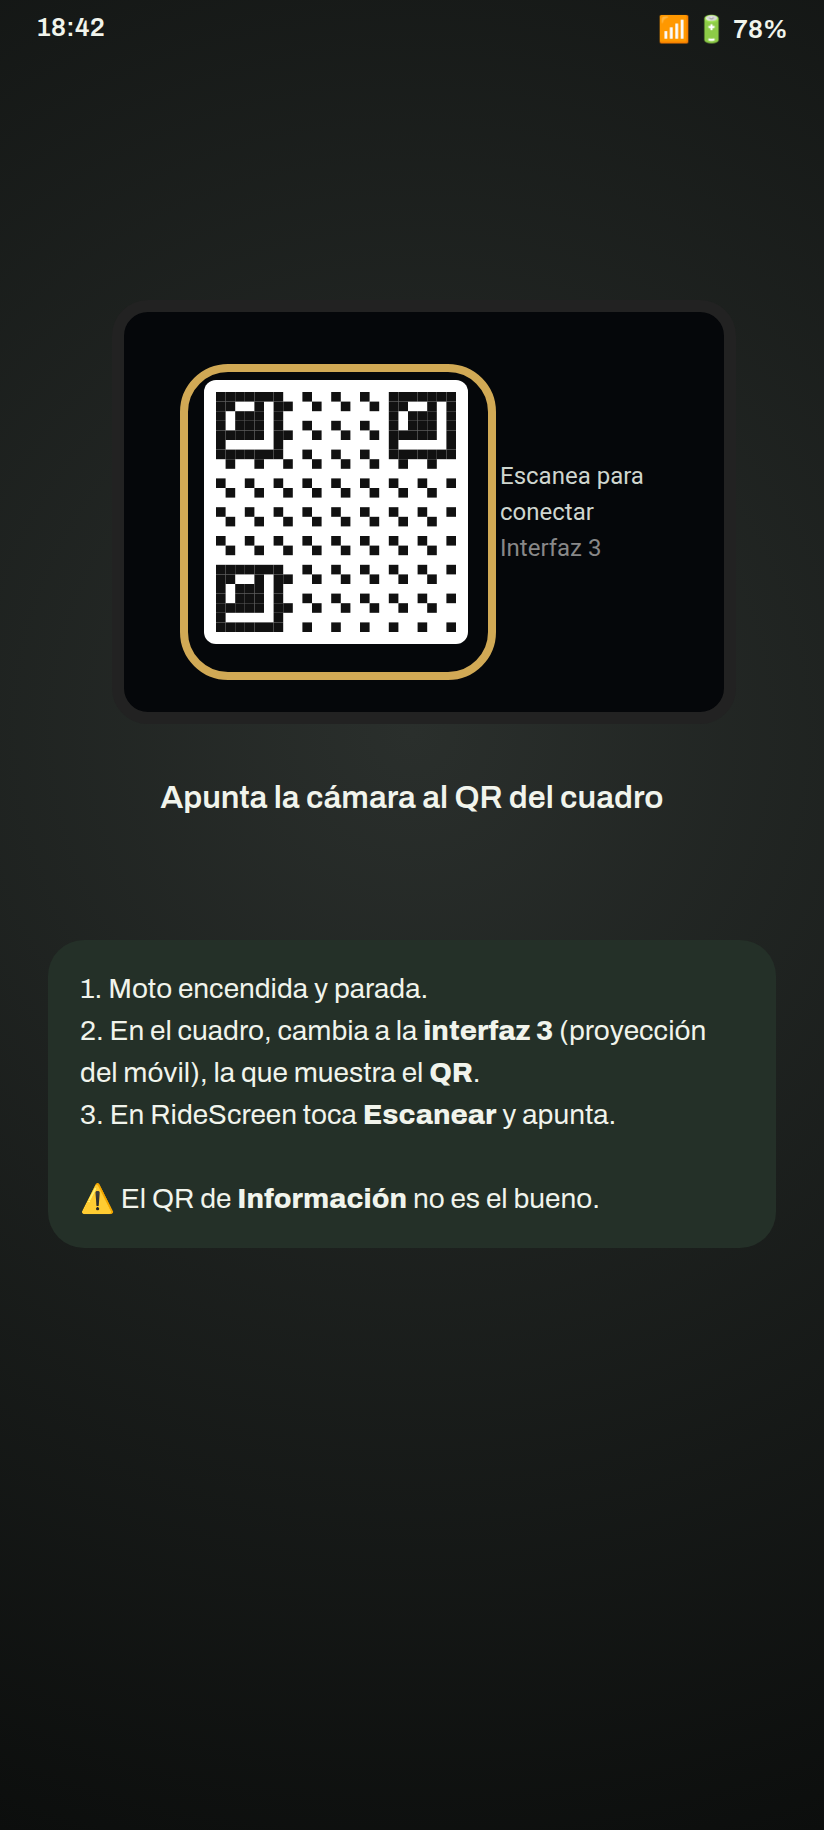
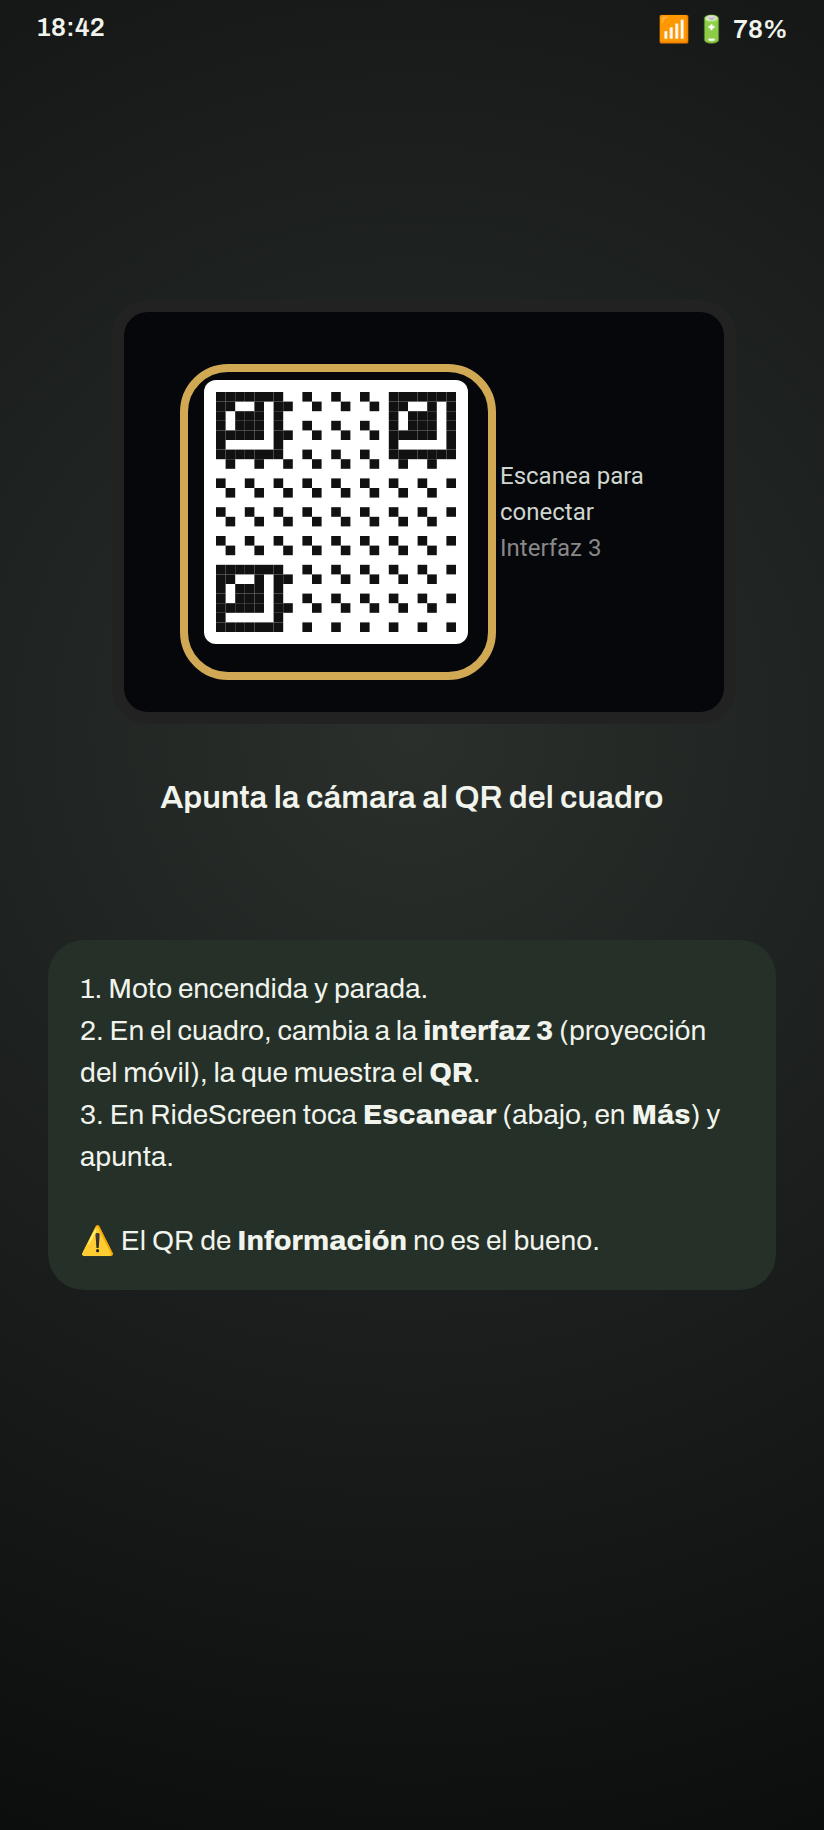
v2.2: install guide — Ajustes/Más/Ayuda paths, microphone step, head-unit-server shortcut, version-agnostic APK name, new screenshots
Claude-Session: https://claude.ai/code/session_01M1475VRaMw3fomj176HQwU

Changed region(s): [[0.091, 0.623, 0.7282, 0.6852], [0.6068, 0.5918, 0.8799, 0.623]]

diff --git a/site/guia/index.html b/site/guia/index.html
@@ -108,11 +108,11 @@ a { color: var(--accent); }
       <li class="step">
         <div class="txt">
           <h3>Descarga el APK del móvil</h3>
-          <p>Abre la página de la última versión y, en <strong>Assets</strong>, toca <strong>RideScreen-AA-v2.apk</strong>.</p>
+          <p>Abre la página de la última versión y, en <strong>Assets</strong>, toca el APK que empieza por <strong>RideScreen-AA-v</strong> (por ejemplo <strong>RideScreen-AA-v2.2.apk</strong>).</p>
           <a class="cta" href="https://github.com/mgb1982/open-cfmoto/releases/latest">Abrir la descarga</a>
           <div class="note warn">No descargues el que pone <strong>WearOS-reloj</strong>: es para el reloj y en el móvil da "el paquete no es válido".</div>
         </div>
-        <img src="g1_descarga.png" alt="Página de descarga en GitHub con RideScreen-AA-v2.apk resaltado" loading="lazy">
+        <img src="g1_descarga.png" alt="Página de descarga en GitHub con el APK del móvil resaltado" loading="lazy">
       </li>
       <li class="step">
         <div class="txt">
@@ -171,7 +171,7 @@ a { color: var(--accent); }
       <li class="step">
         <div class="txt">
           <h3>Escanea el QR del cuadro</h3>
-          <p>En el cuadro, cambia a la <strong>interfaz 3</strong>: la pantalla de proyección del móvil, que muestra un código QR. En RideScreen toca <strong>Escanear</strong> y apunta la cámara.</p>
+          <p>En el cuadro, cambia a la <strong>interfaz 3</strong>: la pantalla de proyección del móvil, que muestra un código QR. En RideScreen toca <strong>Escanear</strong> (abajo, en <strong>Más</strong>) y apunta la cámara.</p>
           <div class="note warn">El QR que aparece en <strong>Información</strong> no es el bueno: escanea el de la interfaz 3. Deja el cuadro en esa pantalla mientras conecta.</div>
         </div>
         <img src="g7_qr.png" alt="Cámara del móvil apuntando al código QR del cuadro" loading="lazy">
@@ -188,7 +188,8 @@ a { color: var(--accent); }
         <div class="txt">
           <h3>Listo: Android Auto en el cuadro</h3>
           <p>En unos segundos aparece Android Auto en la pantalla de la moto. Puedes guardar el móvil en el bolsillo.</p>
-          <p>La próxima vez basta con tocar <strong>Conectar</strong>. Para que se conecte sola al arrancar la moto: Configuración → <strong>Conectar cuando se conecte un dispositivo Bluetooth</strong> → elige el Bluetooth del cuadro (empieza por "ZT") y permite <strong>Mostrar sobre otras apps</strong>.</p>
+          <p>La próxima vez basta con tocar <strong>Conectar</strong>. Para que se conecte sola al arrancar la moto: <strong>⚙ Ajustes</strong> → <strong>Conectar cuando se conecte un dispositivo Bluetooth</strong> → elige el Bluetooth del cuadro (empieza por "ZT") y permite <strong>Mostrar sobre otras apps</strong>.</p>
+          <p>La primera vez que conectes, la app te pedirá el <strong>micrófono</strong>: elige <strong>Mientras se usa la app</strong> para poder usar «Ok Google» y el botón de voz del intercomunicador.</p>
         </div>
         <img src="g9_listo.png" alt="RideScreen conectado, con Android Auto en el cuadro" loading="lazy">
       </li>
@@ -202,7 +203,7 @@ a { color: var(--accent); }
       <details>
         <summary>"La aplicación no se ha instalado" / "el paquete no es válido"<small>Al instalar el APK</small></summary>
         <ul>
-          <li>Comprueba que bajaste <strong>RideScreen-AA-v2.apk</strong> y no el del reloj (WearOS-reloj).</li>
+          <li>Comprueba que bajaste el APK <strong>RideScreen-AA-v….apk</strong> y no el del reloj (WearOS-reloj).</li>
           <li>Si la descarga se cortó, el archivo queda dañado: bórralo y descárgalo otra vez con buena conexión.</li>
           <li>Si pone "no compatible", tu móvil es de 32 bits o tiene Android 9 o anterior. Avísanos con el modelo de móvil.</li>
           <li>Si tenías la OpenCfMoto <em>oficial</em> de Alexandru, desinstálala antes: están firmadas con claves distintas.</li>
@@ -234,7 +235,7 @@ a { color: var(--accent); }
       <details>
         <summary>"Android Auto no se ha enganchado" / se conecta y se desconecta<small>Wi‑Fi de la moto conectada, pero no sale Android Auto</small></summary>
         <ul>
-          <li>Casi siempre es el servidor de unidad principal (paso 6). Ábrelo e inícialo. Si ya estaba iniciado: ⋮ → Detener, y luego Iniciar otra vez.</li>
+          <li>Casi siempre es el servidor de unidad principal (paso 6): la app muestra un aviso con el botón <strong>Abrir Android Auto</strong>. Ahí, ⋮ → Detener servidor de unidad principal, y luego Iniciar otra vez (aunque pareciera iniciado: a veces se queda colgado).</li>
           <li>Después de reiniciar el móvil siempre hay que iniciarlo de nuevo.</li>
           <li>No desinstales las actualizaciones de Android Auto: no hace falta y empeora las cosas.</li>
         </ul>
@@ -249,7 +250,7 @@ a { color: var(--accent); }
       </details>
       <details>
         <summary>Nada de lo anterior<small>Cómo pedir ayuda</small></summary>
-        <p>En RideScreen toca <strong>Registros → Compartir registros</strong> justo después del fallo, y mándalo al grupo diciendo tu moto y tu móvil. Los registros no incluyen contraseñas ni números de serie.</p>
+        <p>En RideScreen toca <strong>❓ Ayuda → Compartir registros</strong> justo después del fallo, y mándalo al grupo diciendo tu moto y tu móvil. Los registros no incluyen contraseñas ni números de serie.</p>
       </details>
     </div>
   </section>
